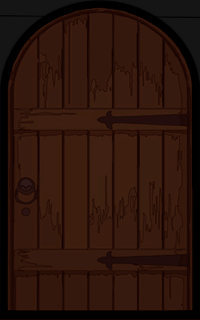
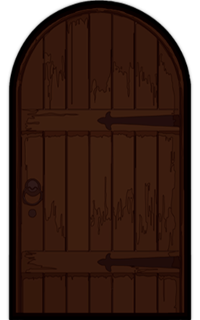
adicionados sprites e cores fundamentais

diff --git a/game/fase.py b/game/fase.py
@@ -12,14 +12,14 @@ LISTA_FASES = [
     {
         "player": (554.167, 681),
         "shapes": [
-            (-234, 349, 330, 330, "caixa"),#caixa esquerda
-            (-566, 349, 330, 330, "caixa"), #caixa direita
-            (-1280, 0, 445, 35), #plataforma canto
-            (-505, -315, 300, 35), #degrau
-            (0, -450, 445, 35), #plataforma porta
-            (1280, -500, 400, 1200), #Parede direita down
-            (450, -959, 1200, 950), #Parede direita up
-            (-1685, -1000, 400, 1690), #Parede esquerda
+            (-234, 350, 330, 330, "caixa"),#caixa esquerda
+            (-566, 350, 330, 330, "caixa"), #caixa direita
+            (-1280, 0, 445, 35, "platf1"), #plataforma canto
+            (-505, -315, 300, 35, "platf2"), #degrau
+            (0, -450, 445, 35, "platf1"), #plataforma porta
+            (1279, -500, 400, 1200, "par1"), #Parede direita down
+            (450, -959, 1200, 950, "par2"), #Parede direita up
+            (-1680, -1000, 400, 1690, "par3"), #Parede esquerda
             (-1280, -1000, LARGURA*2, 40) #teto
         ],
         "portas": [
@@ -31,10 +31,11 @@ LISTA_FASES = [
         "enemy": (900, 681),
         "shapes": [
             # (-1280, 359, 200, 320, "porta-entrada"),
-            (-234, 18, 330, 330, "caixa"),
-            (-234, 349, 330, 330, "caixa"),
-            (-566, 349, 330, 330, "caixa"),
-            (-1685, -1000, 400, 1690)
+            (-234, 20, 330, 330, "caixa"),
+            (-234, 350, 330, 330, "caixa"),
+            (-566, 350, 330, 330, "caixa"),
+            (-1680, -1000, 400, 1690, "par3"),
+            (1279, -500, 400, 1200, "par1")
         ],
         "portas": [
             (-1280, 359, "porta-entrada")
@@ -44,7 +45,7 @@ LISTA_FASES = [
 
 dirname = os.path.dirname(__file__)
 
-bg = pg.image.load(os.path.join(dirname, 'asset/image/bg/f0_bg.jpg'))
+#bg = pg.image.load(os.path.join(dirname, 'asset/image/bg/f0_bg.jpg'))
 
 class Plataforma(pg.sprite.Sprite):
     def __init__(self, x, y, l, a, tag=""):
@@ -52,11 +53,21 @@ class Plataforma(pg.sprite.Sprite):
         self.image = pg.Surface((l, a))
 
         if tag == "":
-            self.image.fill(VERDE)
+            self.image.fill(MARROM)
         elif tag == "porta-saida" or tag == "porta-entrada":
             self.image = scn_porta
         elif tag == "caixa":
             self.image = scn_caixa
+        elif tag == "platf1":
+            self.image = scn_plat1
+        elif tag == "platf2":
+            self.image = scn_plat2
+        elif tag == "par1":
+            self.image = scn_parede1
+        elif tag == "par2":
+            self.image = scn_parede2
+        elif tag == "par3":
+            self.image = scn_parede3
 
         self.rect = self.image.get_rect()
         self.rect.x = x

diff --git a/game/jogo_config.py b/game/jogo_config.py
@@ -17,6 +17,8 @@ JOGADOR_PULO = 25
 
 dirname = os.path.dirname(__file__)
 
+bg = pg.image.load(os.path.join(dirname, 'asset/image/bg/bg0.png'))
+
 char_r = pg.image.load(os.path.join(dirname, 'asset/image/char/pnp/pnp_idle_right.png'))
 char_l = pg.image.load(os.path.join(dirname, 'asset/image/char/pnp/pnp_idle_left.png'))
 
@@ -34,6 +36,11 @@ walkLeft = [pg.image.load(os.path.join(dirname, 'asset/image/char/pnp/pnp_left_0
 
 scn_caixa = pg.image.load(os.path.join(dirname, 'asset/image/bg/caixa.png'))
 scn_porta = pg.image.load(os.path.join(dirname, 'asset/image/bg/porta.png'))
+scn_plat1 = pg.image.load(os.path.join(dirname, 'asset/image/bg/platf1.png'))
+scn_plat2 = pg.image.load(os.path.join(dirname, 'asset/image/bg/platf2.png'))
+scn_parede1 = pg.image.load(os.path.join(dirname, 'asset/image/bg/parede1.png'))
+scn_parede2 = pg.image.load(os.path.join(dirname, 'asset/image/bg/parede2.png'))
+scn_parede3 = pg.image.load(os.path.join(dirname, 'asset/image/bg/parede3.png'))
 
 #Paleta de cores (VALORES EM RGB)
 BRANCO = (255,255,255)
@@ -42,3 +49,7 @@ VERMELHO = (255,0,0)
 VERDE = (0,255,0)
 AZUL = (0,0,255)
 AMARELO = (255,255,0)
+MARROM = (78,9,2)
+CINZA = (21,21,21)
+AREIA = (240,222,180)
+CEU = (135,206,235)

diff --git a/game/c_menu.py b/game/c_menu.py
@@ -15,17 +15,17 @@ class MenuInicial:
 
         self.img_jogar = font.render("JOGAR", True, (255, 0, 0))
         self.r_jogar = self.img_jogar.get_rect()
-        self.r_jogar.topleft = (LARGURA/2, ALTURA/2)
+        self.r_jogar.topleft = ((LARGURA/2) - 8, (ALTURA/2) + 25)
 
-        self.img_creditos = font.render("CREDITOS", True, (255, 0, 0))
+        self.img_creditos = font_gameover.render("Corsários do Mar de Areia", True, (255, 0, 0))
         self.r_creditos = self.img_creditos.get_rect()
-        self.r_creditos.topleft = ((LARGURA/2) - 8, (ALTURA/2) + 16)
+        self.r_creditos.topleft = ((LARGURA/2) - 8, (ALTURA/2) - 25)
 
     def executando(self):
         self.eventos()
 
-        self.menu.janela.blit(self.img_jogar, self.r_jogar.topleft)
         self.menu.janela.blit(self.img_creditos, self.r_creditos.topleft)
+        self.menu.janela.blit(self.img_jogar, self.r_jogar.topleft)
 
     def eventos(self):
         for e in pg.event.get(pg.MOUSEBUTTONDOWN):

diff --git a/game/c_jogo.py b/game/c_jogo.py
@@ -134,8 +134,8 @@ class Jogo:
 
     def desenhar(self):
         # Loop do jogo - desenha a tela
-        #self.janela.blit(bg, (-1280,-720))
-        self.janela.fill(BRANCO)
+        self.janela.blit(bg, (0,0))
+        self.janela.fill(CINZA)
         # self.jogador.draw()
         self.inimigo.draw()
         #self.todos_sprites.draw(self.janela)

diff --git a/game/Main.py b/game/Main.py
@@ -19,7 +19,7 @@ clock = pg.time.Clock()
 
 while menu.is_rodando:
     clock.tick(FPS)
-    janela.fill((255, 255, 255))
+    janela.fill(AREIA)
     pg.event.pump()
     menu.executando()
 
